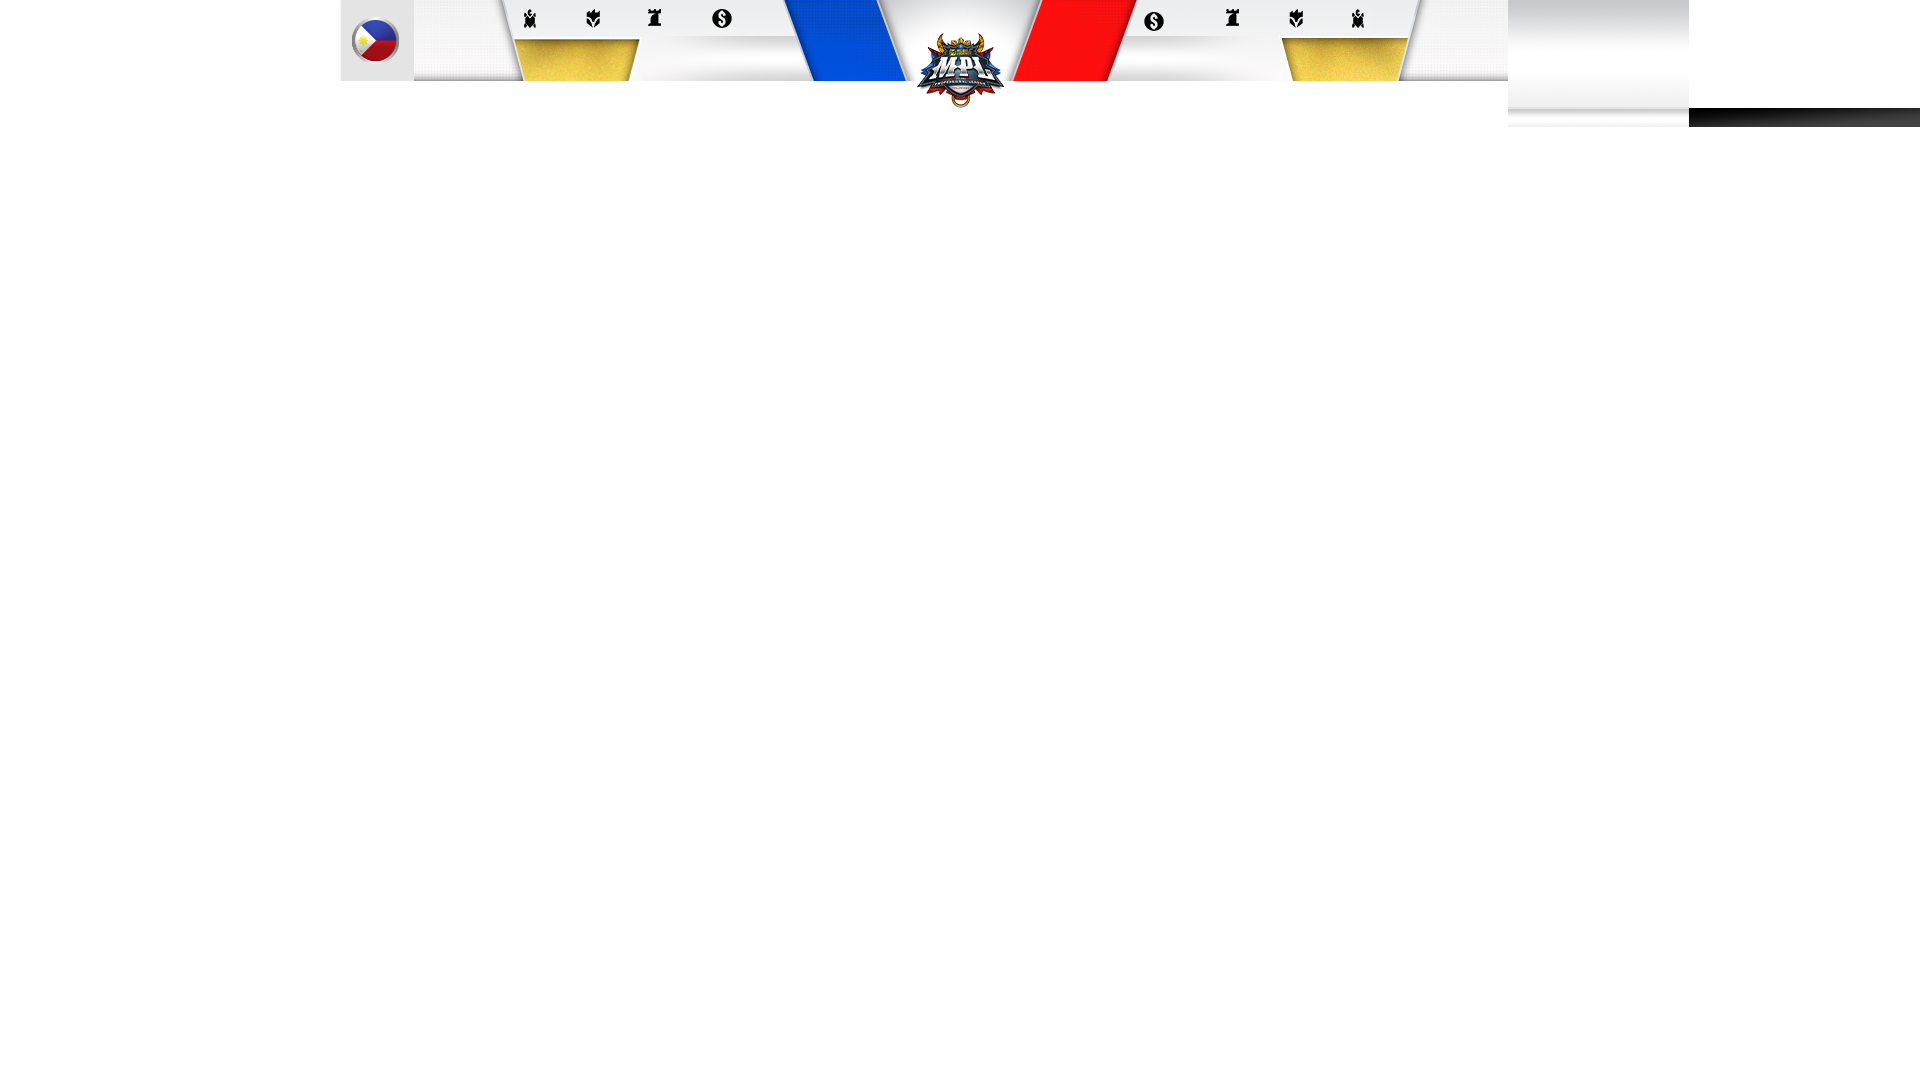
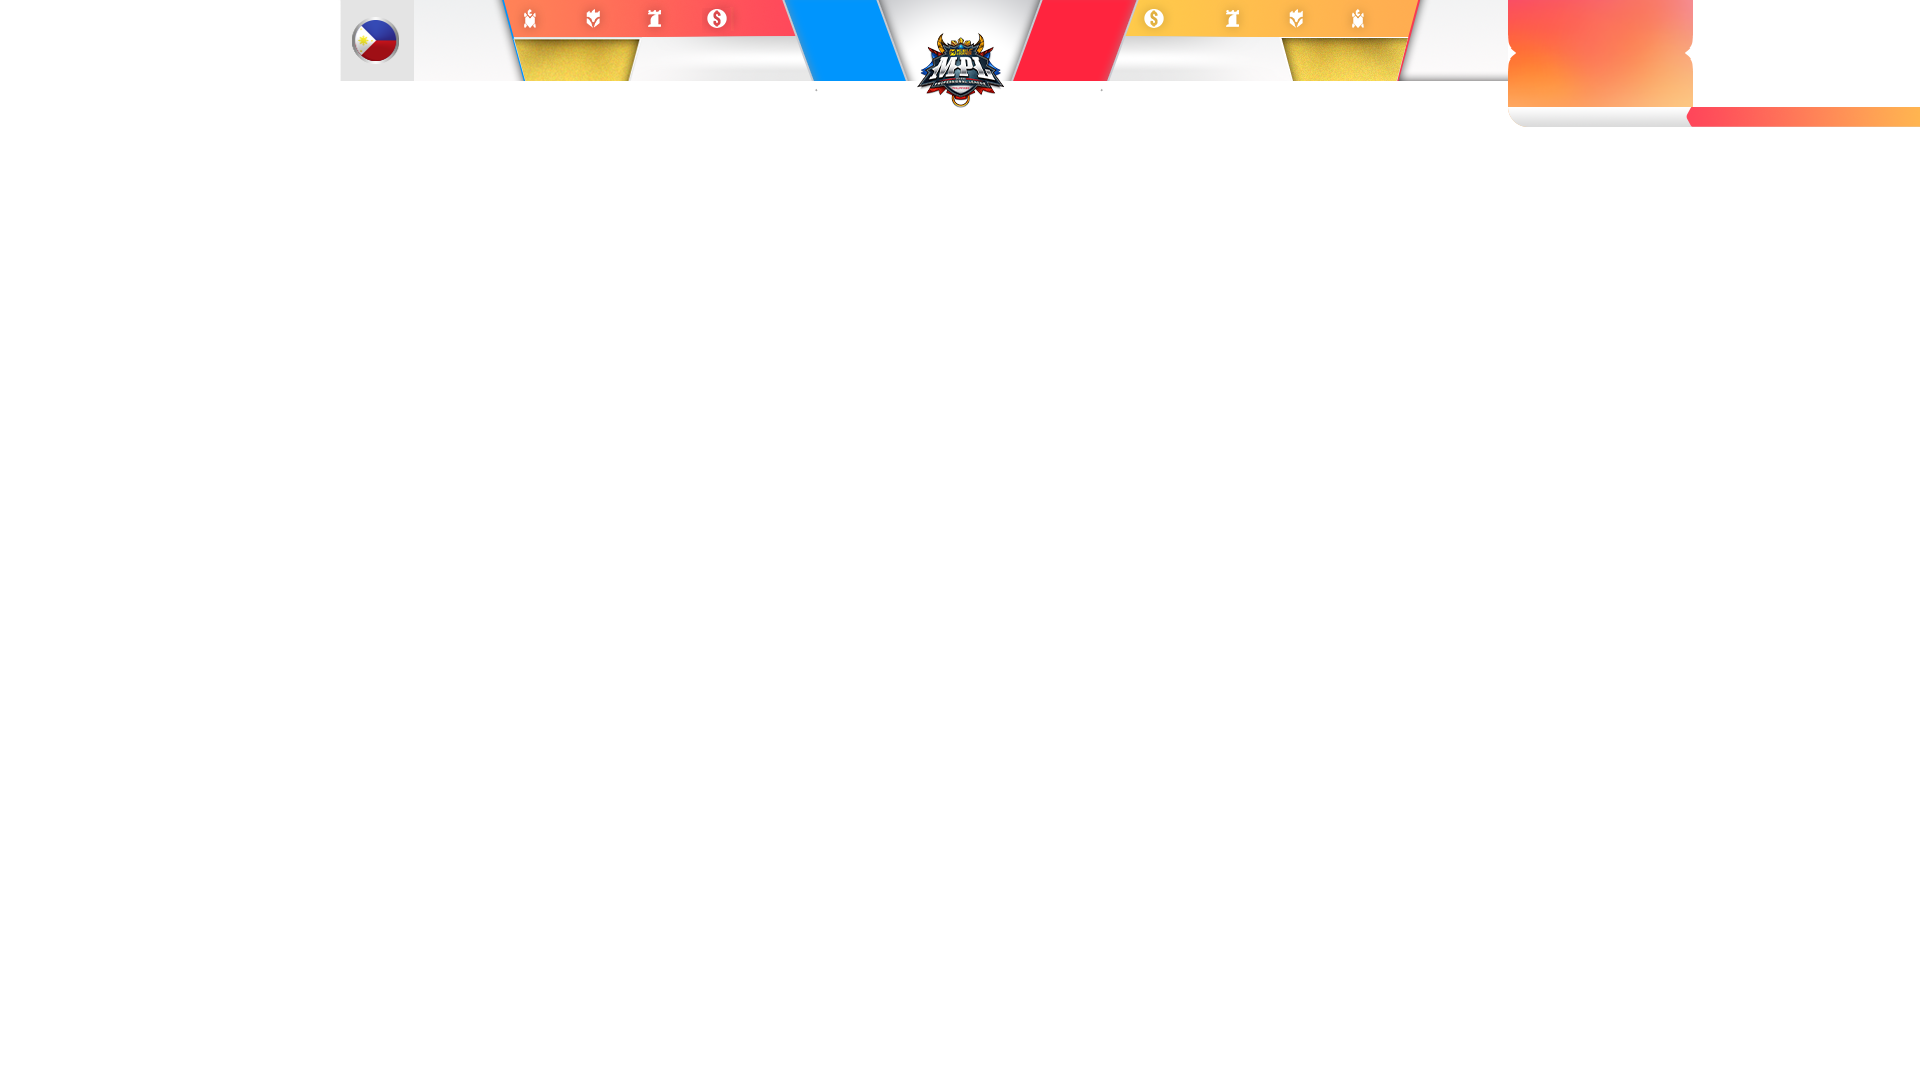
10th anniv.
- Enduring Legacy PNGs

Changed region(s): [[0.7812, 0.0, 1.0, 0.1222], [0.2188, 0.0, 0.4688, 0.0917], [0.5312, 0.0, 0.75, 0.0917]]

diff --git a/html/mplfs.html b/html/mplfs.html
@@ -7892,6 +7892,7 @@
         'TodayMatches.png':          'anniversary/TodayMatches.png',
         'MatchBox_REGULAR MATCH.png': 'anniversary/MatchBox_REGULAR MATCH.png',
         'MatchBox_EPIC RIVALRY.png': 'anniversary/MatchBox_EPIC RIVALRY.png',
+        'MatchBox_ENDURING LEGACY.png': 'anniversary/MatchBox_ENDURING LEGACY.png',
         'HOST_BOXv1.png':            'anniversary/HOST_BOXv1.png',
         'CASTER_BOXv1.png':          'anniversary/CASTER_BOXv1.png',
         'NAMEBOX.png':               'anniversary/NAMEBOX.png',

diff --git a/html/ENTVC.html b/html/ENTVC.html
@@ -886,6 +886,7 @@
         'TodayMatches.png':          'anniversary/TodayMatches.png',
         'MatchBox_REGULAR MATCH.png': 'anniversary/MatchBox_REGULAR MATCH.png',
         'MatchBox_EPIC RIVALRY.png': 'anniversary/MatchBox_EPIC RIVALRY.png',
+        'MatchBox_ENDURING LEGACY.png': 'anniversary/MatchBox_ENDURING LEGACY.png',
         'HOST_BOXv1.png':            'anniversary/HOST_BOXv1.png',
         'CASTER_BOXv1.png':          'anniversary/CASTER_BOXv1.png',
         'NAMEBOX.png':               'anniversary/NAMEBOX.png',
